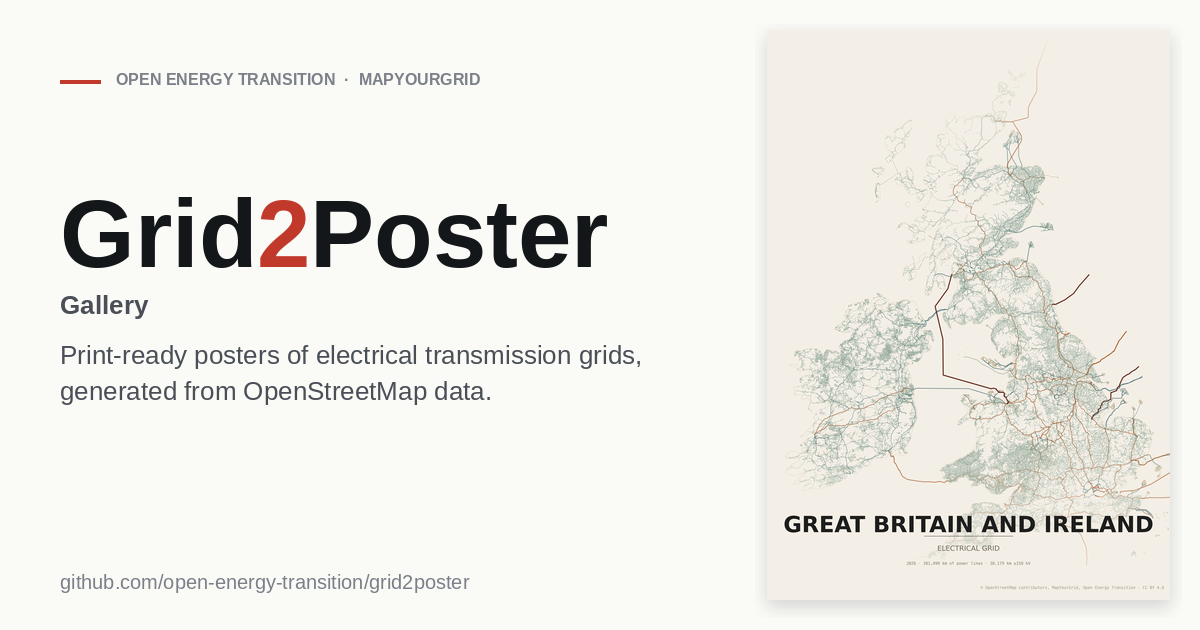
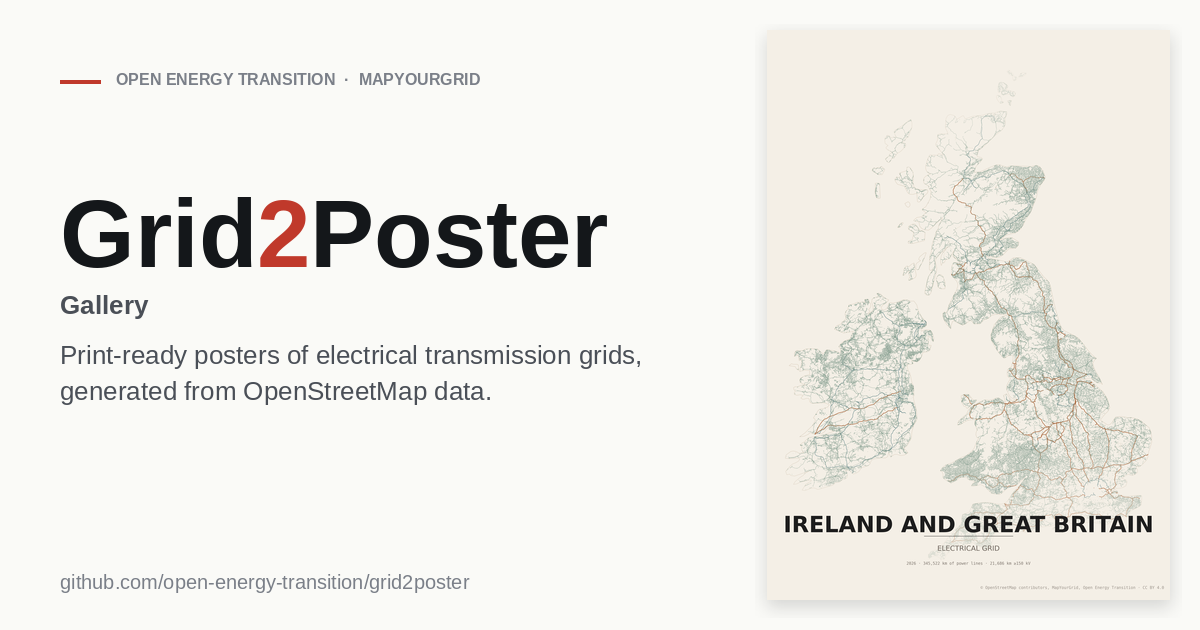
more posters

diff --git a/build_social_preview.py b/build_social_preview.py
@@ -9,7 +9,7 @@ from pathlib import Path
 from PIL import Image, ImageDraw, ImageFilter, ImageFont
 
 ROOT = Path(__file__).resolve().parent
-SRC = ROOT / "posters" / "great_britain_and_ireland_grid_paper_grid_20260521_111155.png"
+SRC = ROOT / "posters" / "ireland_and_great_britain_grid_paper_grid_20260522_182144.png"
 OUT = ROOT / "assets" / "social-preview.png"
 
 W, H = 1200, 630
